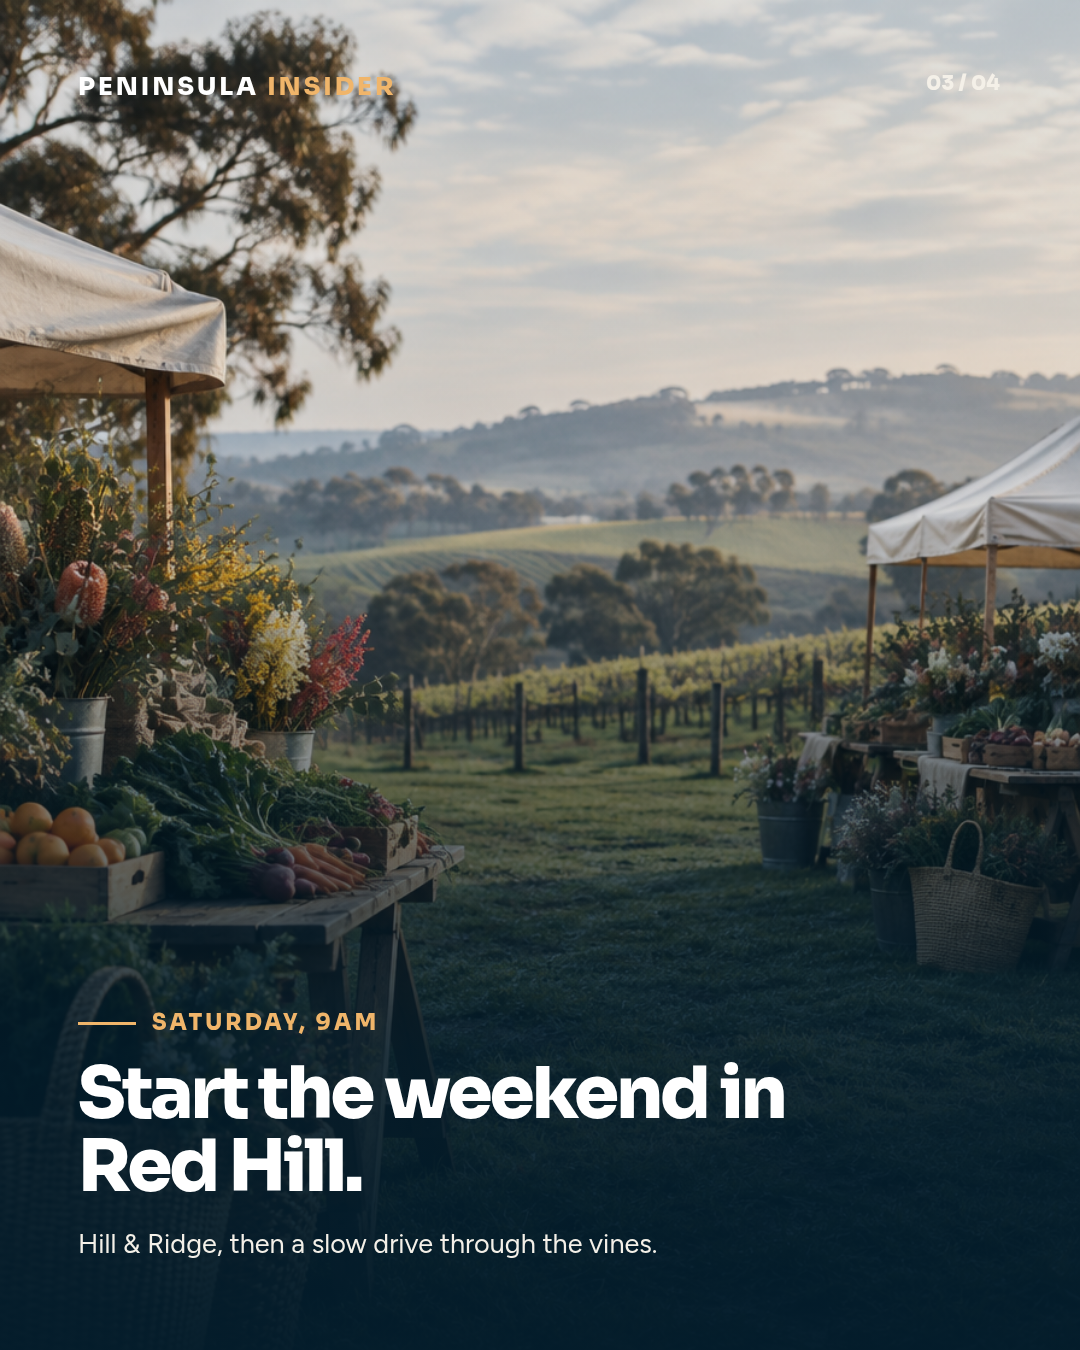
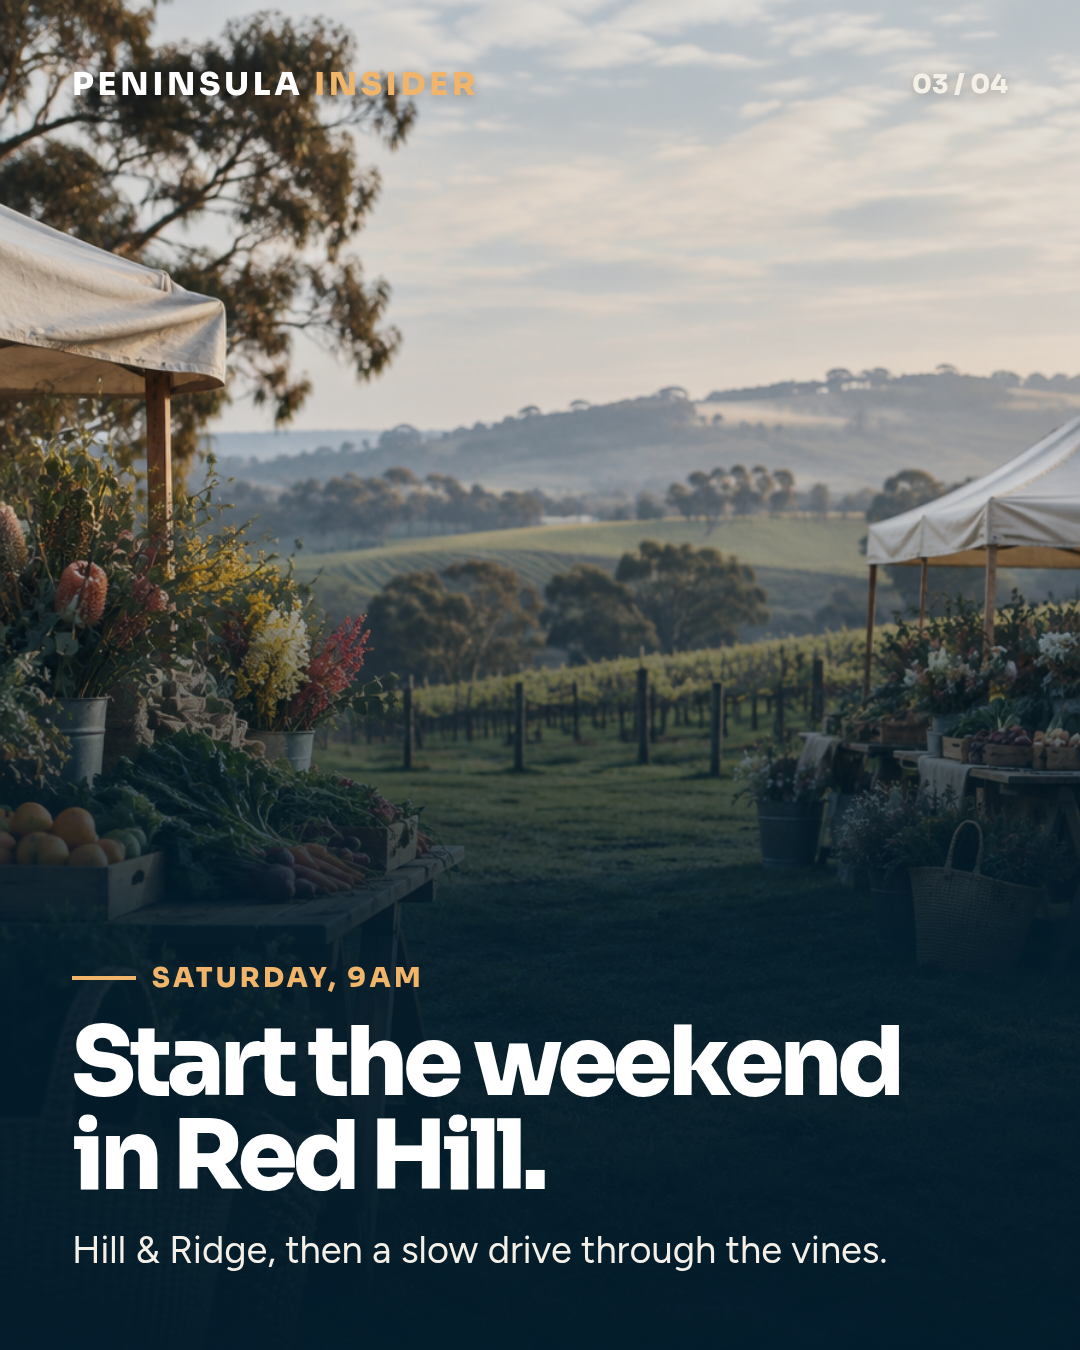
fix(pi): increase campaign typography for mobile

diff --git a/campaigns/peninsula-insider-social-october-2026/index.html b/campaigns/peninsula-insider-social-october-2026/index.html
@@ -7,7 +7,7 @@
 <title>Peninsula Insider · Spring after five</title>
 <style>
 .art video{display:block;width:100%;border-radius:3px;box-shadow:0 24px 60px rgba(8,41,58,.15);background:#08293a}
-@font-face{font-family:Sora;src:url('assets/fonts/sora-600.woff2')}@font-face{font-family:Sora;src:url('assets/fonts/sora-800.woff2');font-weight:800}@font-face{font-family:Figtree;src:url('assets/fonts/figtree-400.woff2')}@font-face{font-family:Figtree;src:url('assets/fonts/figtree-600.woff2');font-weight:600}:root{--ink:#08293a;--paper:#f5f0e7;--blue:#0f5269;--orange:#de8f42;--moss:#657b5f;--line:#d8d0c4}*{box-sizing:border-box}html{scroll-behavior:smooth}body{margin:0;background:var(--paper);color:var(--ink);font:18px/1.55 Figtree,system-ui,sans-serif}.wrap{width:min(1180px,calc(100% - 36px));margin:auto}header{padding:72px 0 50px;border-bottom:1px solid var(--line)}.kicker{font:600 13px/1 Sora;letter-spacing:.17em;text-transform:uppercase;color:var(--orange)}h1{max-width:880px;margin:18px 0 24px;font:800 clamp(44px,7vw,88px)/.98 Sora;letter-spacing:-.05em}header p{max-width:720px;font-size:22px;color:#45616e}.status{display:inline-flex;gap:10px;align-items:center;margin-top:20px;padding:10px 14px;border:1px solid #bfc9bd;border-radius:999px;background:#eef0e8;font-weight:600;color:#4d684d}.dot{width:9px;height:9px;border-radius:50%;background:var(--moss)}nav{display:flex;gap:10px;flex-wrap:wrap;padding:24px 0}nav a{color:var(--ink);text-decoration:none;border-bottom:1px solid var(--ink)}.intro{display:grid;grid-template-columns:1fr 1fr;gap:28px;padding:56px 0}.panel{padding:30px;border:1px solid var(--line);background:#faf7f1}.panel h2{margin:0 0 12px;font:600 25px/1.15 Sora}.panel p{margin:0;color:#45616e}.post{display:grid;grid-template-columns:minmax(300px,470px) 1fr;gap:52px;align-items:start;padding:76px 0;border-top:1px solid var(--line)}.art img{display:block;width:100%;border-radius:3px;box-shadow:0 24px 60px rgba(8,41,58,.15)}.download{display:block;margin-top:12px;color:var(--blue);font-weight:600}.meta{display:flex;gap:8px;flex-wrap:wrap;margin-bottom:18px}.chip{padding:7px 10px;border-radius:999px;background:#e8e2d8;font:600 12px/1 Sora;text-transform:uppercase;letter-spacing:.08em}.post h2{margin:0 0 18px;font:800 clamp(34px,4vw,54px)/1.05 Sora;letter-spacing:-.035em}.caption{white-space:pre-wrap;overflow-wrap:anywhere;padding:22px;background:#fff;border-left:4px solid var(--orange);font-size:17px}.actions{display:flex;gap:12px;flex-wrap:wrap;margin-top:22px}.button{display:inline-flex;align-items:center;justify-content:center;min-height:48px;padding:0 20px;border-radius:4px;background:var(--ink);color:#fff;text-decoration:none;font-weight:600}.button.secondary{background:transparent;color:var(--ink);border:1px solid var(--ink)}.button:hover{background:var(--blue)}.release{margin:44px 0 80px;padding:46px;background:var(--ink);color:#fff}.release h2{margin:0 0 12px;font:800 clamp(32px,5vw,58px)/1.05 Sora}.release p{max-width:760px;color:#cbd8dd}.release .button{margin-top:18px;background:var(--orange);color:var(--ink);font-size:19px}.fine{font-size:14px;overflow-wrap:anywhere;color:#66808b}.release .fine{color:#aebfc6}@media(max-width:760px){header{padding-top:44px}.intro,.post{grid-template-columns:1fr}.post{gap:28px;padding:52px 0}.art{max-width:520px}.release{padding:30px}.actions .button{width:100%;padding:12px}.release .button{padding:12px;text-align:center}}@media print{.actions,.release{display:none}body{background:#fff}.post{break-inside:avoid}}
+@font-face{font-family:Sora;src:url('assets/fonts/sora-600.woff2')}@font-face{font-family:Sora;src:url('assets/fonts/sora-800.woff2');font-weight:800}@font-face{font-family:Figtree;src:url('assets/fonts/figtree-400.woff2')}@font-face{font-family:Figtree;src:url('assets/fonts/figtree-600.woff2');font-weight:600}:root{--ink:#08293a;--paper:#f5f0e7;--blue:#0f5269;--orange:#de8f42;--moss:#657b5f;--line:#d8d0c4}*{box-sizing:border-box}html{scroll-behavior:smooth}body{margin:0;background:var(--paper);color:var(--ink);font:18px/1.55 Figtree,system-ui,sans-serif}.wrap{width:min(1180px,calc(100% - 36px));margin:auto}header{padding:72px 0 50px;border-bottom:1px solid var(--line)}.kicker{font:600 13px/1 Sora;letter-spacing:.17em;text-transform:uppercase;color:var(--orange)}h1{max-width:880px;margin:18px 0 24px;font:800 clamp(44px,7vw,88px)/.98 Sora;letter-spacing:-.05em}header p{max-width:720px;font-size:22px;color:#45616e}.status{display:inline-flex;gap:10px;align-items:center;margin-top:20px;padding:10px 14px;border:1px solid #bfc9bd;border-radius:999px;background:#eef0e8;font-weight:600;color:#4d684d}.dot{width:9px;height:9px;border-radius:50%;background:var(--moss)}nav{display:flex;gap:10px;flex-wrap:wrap;padding:24px 0}nav a{color:var(--ink);text-decoration:none;border-bottom:1px solid var(--ink)}.intro{display:grid;grid-template-columns:1fr 1fr;gap:28px;padding:56px 0}.panel{padding:30px;border:1px solid var(--line);background:#faf7f1}.panel h2{margin:0 0 12px;font:600 25px/1.15 Sora}.panel p{margin:0;color:#45616e}.post{display:grid;grid-template-columns:minmax(300px,470px) 1fr;gap:52px;align-items:start;padding:76px 0;border-top:1px solid var(--line)}.art img{display:block;width:100%;border-radius:3px;box-shadow:0 24px 60px rgba(8,41,58,.15)}.download{display:block;margin-top:12px;color:var(--blue);font-weight:600}.meta{display:flex;gap:8px;flex-wrap:wrap;margin-bottom:18px}.chip{padding:7px 10px;border-radius:999px;background:#e8e2d8;font:600 12px/1 Sora;text-transform:uppercase;letter-spacing:.08em}.post h2{margin:0 0 18px;font:800 clamp(34px,4vw,54px)/1.05 Sora;letter-spacing:-.035em}.caption{white-space:pre-wrap;overflow-wrap:anywhere;padding:22px;background:#fff;border-left:4px solid var(--orange);font-size:17px}.actions{display:flex;gap:12px;flex-wrap:wrap;margin-top:22px}.button{display:inline-flex;align-items:center;justify-content:center;min-height:48px;padding:0 20px;border-radius:4px;background:var(--ink);color:#fff;text-decoration:none;font-weight:600}.button.secondary{background:transparent;color:var(--ink);border:1px solid var(--ink)}.button:hover{background:var(--blue)}.release{margin:44px 0 80px;padding:46px;background:var(--ink);color:#fff}.release h2{margin:0 0 12px;font:800 clamp(32px,5vw,58px)/1.05 Sora}.release p{max-width:760px;color:#cbd8dd}.release .button{margin-top:18px;background:var(--orange);color:var(--ink);font-size:19px}.fine{font-size:14px;overflow-wrap:anywhere;color:#66808b}.release .fine{color:#aebfc6}@media(max-width:760px){body{font-size:19px;line-height:1.6}.wrap{width:min(100% - 28px,520px)}header{padding:34px 0 28px}.kicker{font-size:12px;letter-spacing:.13em}h1{margin:14px 0 16px;font-size:clamp(42px,13vw,58px);line-height:1}header p{font-size:19px;line-height:1.45}.status{display:flex;margin-top:16px;padding:10px 12px;font-size:16px;line-height:1.3}.intro,.post{grid-template-columns:1fr}.intro{gap:14px;padding:28px 0}.panel{padding:22px}.panel h2{font-size:24px}.post{gap:24px;padding:42px 0}.art{max-width:none}.download{margin-top:16px;font-size:18px;line-height:1.35}.meta{gap:7px;margin-bottom:16px}.chip{padding:8px 10px;font-size:12px}.post h2{margin-bottom:16px;font-size:clamp(36px,10vw,46px);line-height:1.02}.caption{padding:20px;font-size:18px;line-height:1.55}.actions .button{width:100%;min-height:54px;padding:12px;font-size:18px}.release{margin:30px 0 48px;padding:28px}.release h2{font-size:clamp(38px,11vw,50px);line-height:1.02}.release .button{min-height:56px;padding:14px;text-align:center}.fine{font-size:15px}}@media print{.actions,.release{display:none}body{background:#fff}.post{break-inside:avoid}}
 </style>
 </head>
 <body>

diff --git a/campaigns/peninsula-insider-social-october-2026/render-assets.html b/campaigns/peninsula-insider-social-october-2026/render-assets.html
@@ -1,5 +1,5 @@
 <!doctype html><html><head><meta charset="utf-8"><style>
-@font-face{font-family:Sora;src:url('assets/fonts/sora-600.woff2')}@font-face{font-family:Sora;src:url('assets/fonts/sora-800.woff2');font-weight:800}@font-face{font-family:Figtree;src:url('assets/fonts/figtree-400.woff2')}*{box-sizing:border-box}html,body{margin:0;background:#111}.asset{position:relative;width:1080px;height:1350px;overflow:hidden;color:#fff}.asset img{position:absolute;inset:0;width:100%;height:100%;object-fit:cover}.shade{position:absolute;inset:0;background:linear-gradient(180deg,rgba(3,28,43,.12) 0%,rgba(3,28,43,.08) 38%,rgba(3,28,43,.88) 78%,rgba(3,28,43,.98) 100%)}.brand{position:absolute;top:74px;left:78px;font:800 25px/1 Sora;letter-spacing:.12em;text-transform:uppercase}.brand b{color:#f0b56a}.copy{position:absolute;left:78px;right:92px;bottom:88px}.eyebrow{display:flex;align-items:center;gap:16px;margin-bottom:24px;font:600 22px/1 Sora;letter-spacing:.14em;text-transform:uppercase;color:#f0b56a}.eyebrow:before{content:"";width:58px;height:3px;background:#f0b56a}.copy h1{max-width:850px;margin:0 0 22px;font:800 72px/1.01 Sora;letter-spacing:-.045em}.copy p{max-width:785px;margin:0;font:400 27px/1.35 Figtree;color:#f4f0e8}.index{position:absolute;right:80px;top:74px;font:600 20px/1 Sora;color:#f4f0e8}.asset[data-id="post-01"] img{object-position:center 52%}.asset[data-id="post-02"] img{object-position:center 50%}.asset[data-id="post-03"] img{object-position:center 52%}.asset[data-id="post-04"] img{object-position:center 54%}
+@font-face{font-family:Sora;src:url('assets/fonts/sora-600.woff2')}@font-face{font-family:Sora;src:url('assets/fonts/sora-800.woff2');font-weight:800}@font-face{font-family:Figtree;src:url('assets/fonts/figtree-400.woff2')}*{box-sizing:border-box}html,body{margin:0;background:#111}.asset{position:relative;width:1080px;height:1350px;overflow:hidden;color:#fff}.asset img{position:absolute;inset:0;width:100%;height:100%;object-fit:cover}.shade{position:absolute;inset:0;background:linear-gradient(180deg,rgba(3,28,43,.12) 0%,rgba(3,28,43,.08) 35%,rgba(3,28,43,.9) 69%,rgba(3,28,43,.99) 100%)}.brand{position:absolute;top:68px;left:72px;font:800 32px/1 Sora;letter-spacing:.12em;text-transform:uppercase;text-shadow:0 2px 12px rgba(0,0,0,.28)}.brand b{color:#f0b56a}.copy{position:absolute;left:72px;right:76px;bottom:76px}.eyebrow{display:flex;align-items:center;gap:16px;margin-bottom:24px;font:600 27px/1 Sora;letter-spacing:.12em;text-transform:uppercase;color:#f0b56a}.eyebrow:before{content:"";width:64px;height:4px;background:#f0b56a}.copy h1{max-width:920px;margin:0 0 22px;font:800 96px/.98 Sora;letter-spacing:-.052em;text-wrap:balance}.copy p{max-width:875px;margin:0;font:400 38px/1.27 Figtree;color:#f4f0e8}.index{position:absolute;right:72px;top:72px;font:600 26px/1 Sora;color:#f4f0e8;text-shadow:0 2px 12px rgba(0,0,0,.28)}.asset[data-id="post-01"] img{object-position:center 52%}.asset[data-id="post-02"] img{object-position:center 50%}.asset[data-id="post-03"] img{object-position:center 52%}.asset[data-id="post-04"] img{object-position:center 54%}
 </style></head><body>
 <section class="asset" data-id="post-01"><img src="assets/source/post-01-weekly-edit.png"><div class="shade"></div><div class="brand">Peninsula <b>Insider</b></div><div class="index">01 / 04</div><div class="copy"><div class="eyebrow">The weekly edit</div><h1>Three reasons to take the long way.</h1><p>Red Hill. Cape Schanck. Sorrento. One considered Peninsula week.</p></div></section>
 <section class="asset" data-id="post-02"><img src="assets/source/post-02-after-five.png"><div class="shade"></div><div class="brand">Peninsula <b>Insider</b></div><div class="index">02 / 04</div><div class="copy"><div class="eyebrow">After five</div><h1>The evening has one more useful hour.</h1><p>Choose the shape before the place—and keep the finish close.</p></div></section>
